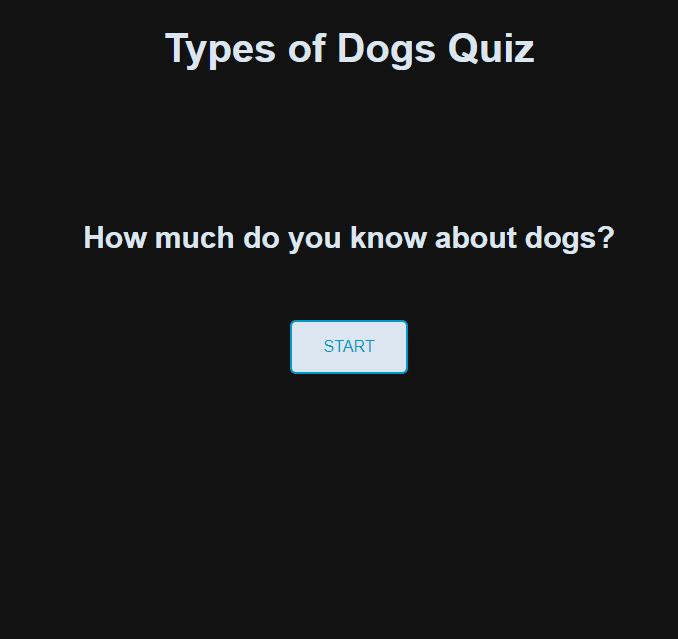
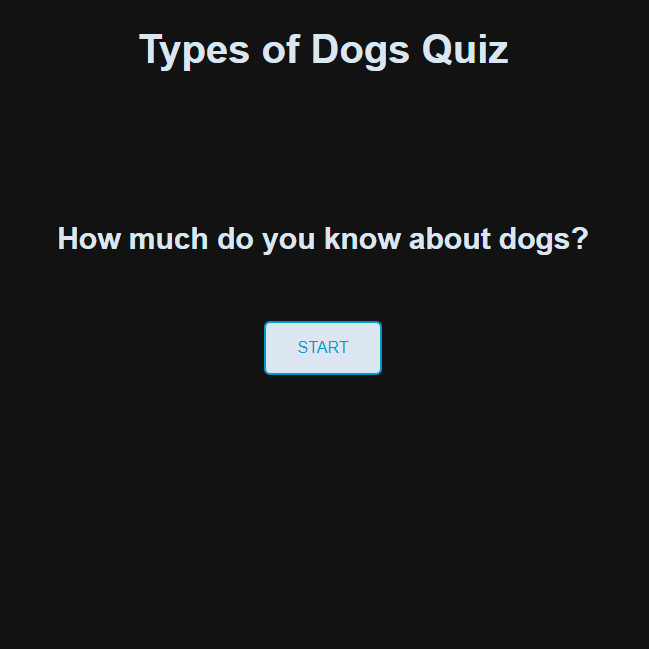
started scaling to desktop

Changed region(s): [[0.2157, 0.0297, 0.8012, 0.1189], [0.0924, 0.3271, 0.9245, 0.4163], [0.4006, 0.4757, 0.6163, 0.5947]]

diff --git a/index.html b/index.html
@@ -27,7 +27,7 @@
         <section id="home">
             <h1>Lillian Burnside</h1>
             <hr class="home-line">
-            <p>A tagline</p>
+            <p>HTML | CSS | Javascript developer</p>
         </section>
 
         <section id="about-me">
@@ -48,16 +48,22 @@
         <section id="projects">
             <article class="bookmark-app">
                 <a href="https://thinkful-ei-leopard.github.io/lily-bookmarks-app/" class="screenshot-img"><img border="0" alt="bookmark app" src="my-bookmarks-app.png" ></a>
-                <h3>Project 1</h3>
-                <p>project desciption</p>
-                <button class="bookmark-button" type="button">GitHub</button>
+                <h3>My Bookmarks</h3>
+                <p>Web app using APIs to read, write, and delete bookmarks.</p>
+                <p>Uses: HTML | CSS | JQuery | Javascript</p>
+                <a href="https://github.com/thinkful-ei-leopard/lily-bookmarks-app">
+                    <button class="bookmark-button" type="button">GitHub</button>
+                </a>
             </article>
 
             <article class="quiz-app">
                 <a href="https://lilyburnside.github.io/quiz-app/" class="screenshot-img"><img border="0" alt="quiz app" src="quiz-app.png" ></a>
-                <h3>Project 2</h3>
-                <p>project desciption</p>
-                <button class="quiz-button" type="button">GitHub</button>
+                <h3>Types of Dogs Quiz</h3>
+                <p>Short quiz that returns pages using user input and saves total score</p>
+                <p>Uses: HTML | CSS | JQuery | Javascript | Web APIs</p>
+                <a href="https://github.com/LilyBurnside/quiz-app">
+                    <button class="quiz-button" type="button">GitHub</button>
+                </a>
             </article>
         </section>
         
@@ -69,7 +75,6 @@
             </div>
         </section>
     </main>
-    <!-- <footer role="content-info">Footer</footer> -->
     <script src="https://code.jquery.com/jquery-3.4.1.slim.min.js" integrity="sha256-pasqAKBDmFT4eHoN2ndd6lN370kFiGUFyTiUHWhU7k8=" crossorigin="anonymous"></script>
     <script href="index.js"></script>
 </body>

diff --git a/styles.css b/styles.css
@@ -154,6 +154,7 @@ hr.home-line {
 
 article {
   background-color: #666666ff;
+  color: #f2ced8ff;
 }
 
 .bookmark-button, .quiz-button {
@@ -166,6 +167,7 @@ article {
   background: #666666ff;
   color: #f2ced8ff;
   font-weight: bold;
+  margin-bottom: 10px;
 }
 
 .bookmark-button:hover, .quiz-button:hover {
@@ -213,4 +215,21 @@ article {
   width: 100px;
   margin-left: 30px;
   margin-right: 30px;
+}
+
+@media only screen and (min-width: 700px) {
+  /* .img-container > img {
+    max-height: 200px;
+  } */
+
+  #projects {
+    display: flex;
+    flex-direction: row;
+    justify-content: center;
+  }
+
+  article {
+    max-width: 500px;
+  }
+
 }
